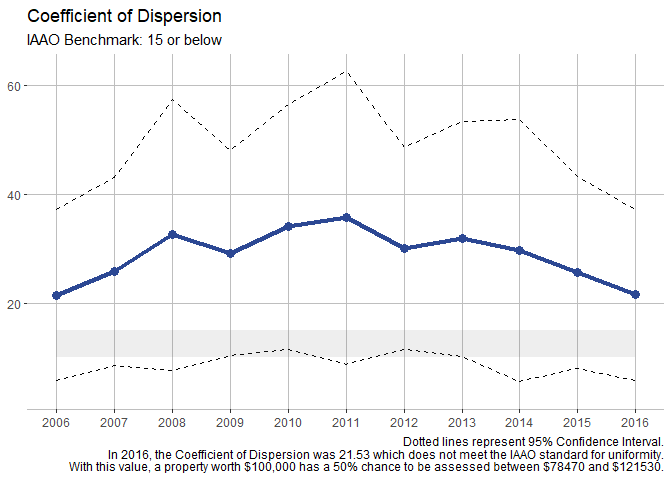
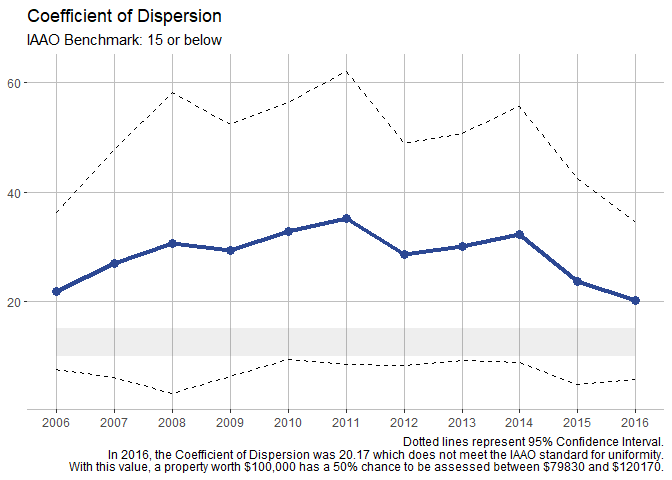
bug fixes

diff --git a/README.md b/README.md
@@ -23,16 +23,23 @@ This is the basic framework to conduct a sales ratio study:
 ``` r
 library(cmfproperty)
 df <- cmfproperty::example_data
-df <- cmfproperty::reformat_data(df, "SALE_PRICE", "ASSESSED_VALUE", "SALE_YEAR", TRUE)
+df <-
+  cmfproperty::reformat_data(
+    df,
+    sale_col = "SALE_PRICE",
+    assessment_col = "ASSESSED_VALUE",
+    sale_year_col = "SALE_YEAR",
+    filter_data = TRUE
+  )
 stats <- cmfproperty::calc_iaao_stats(df)
 head(stats)
-#>       N     COD COD_SE    PRD PRD_SE     PRB PRB_SE  q1_ratio median_ratio
-#> 1 11448 15.2764 6.0384 1.0409 0.0055 -0.0706 0.0026 0.7463933    0.8350732
-#> 2 12341 15.2686 5.9287 1.0445 0.0078 -0.0737 0.0025 0.8122727    0.9000000
-#> 3 14002 19.0369 7.2020 1.0652 0.0050 -0.0868 0.0027 0.7787830    0.8794514
-#> 4 13449 19.5676 6.2477 1.0588 0.0058 -0.0887 0.0029 0.7556391    0.8543689
-#> 5 13743 21.4951 8.0429 1.0912 0.0042 -0.1301 0.0032 0.8974978    1.0068293
-#> 6 12634 25.7799 8.8034 1.1287 0.0083 -0.1967 0.0036 0.9369951    1.0879731
+#>       N     COD  COD_SE    PRD PRD_SE     PRB PRB_SE  q1_ratio median_ratio
+#> 1 11448 15.6920  5.9279 1.0277 0.0083 -0.0706 0.0026 0.7463933    0.8350732
+#> 2 12341 16.3622  6.6752 1.0321 0.0070 -0.0737 0.0025 0.8122727    0.9000000
+#> 3 14002 18.4400  7.5252 1.0847 0.0095 -0.0868 0.0027 0.7787830    0.8794514
+#> 4 13449 19.1875  7.0249 1.0770 0.0090 -0.0887 0.0029 0.7556391    0.8543689
+#> 5 13743 21.9013  7.3364 1.1015 0.0079 -0.1301 0.0032 0.8974978    1.0068293
+#> 6 12634 26.9728 10.6388 1.1758 0.0177 -0.1967 0.0036 0.9369951    1.0879731
 #>    q3_ratio q1_sale median_sale q3_sale q1_assessed_value median_assessed_value
 #> 1 0.9407725   68900    108162.5  146525             55075                 87100
 #> 2 1.0040000   71500    113000.0  153000             63500                 99600
@@ -74,7 +81,11 @@ cmfproperty::regression_tests(df)
 ```
 
 ``` r
-plot_ls <- cmfproperty::plots(stats, df, 2006, 2016)
+plot_ls <-
+  cmfproperty::plots(stats,
+                     df,
+                     min_reporting_yr = 2006,
+                     max_reporting_yr = 2016)
 plot_ls[[1]]
 ```
 
